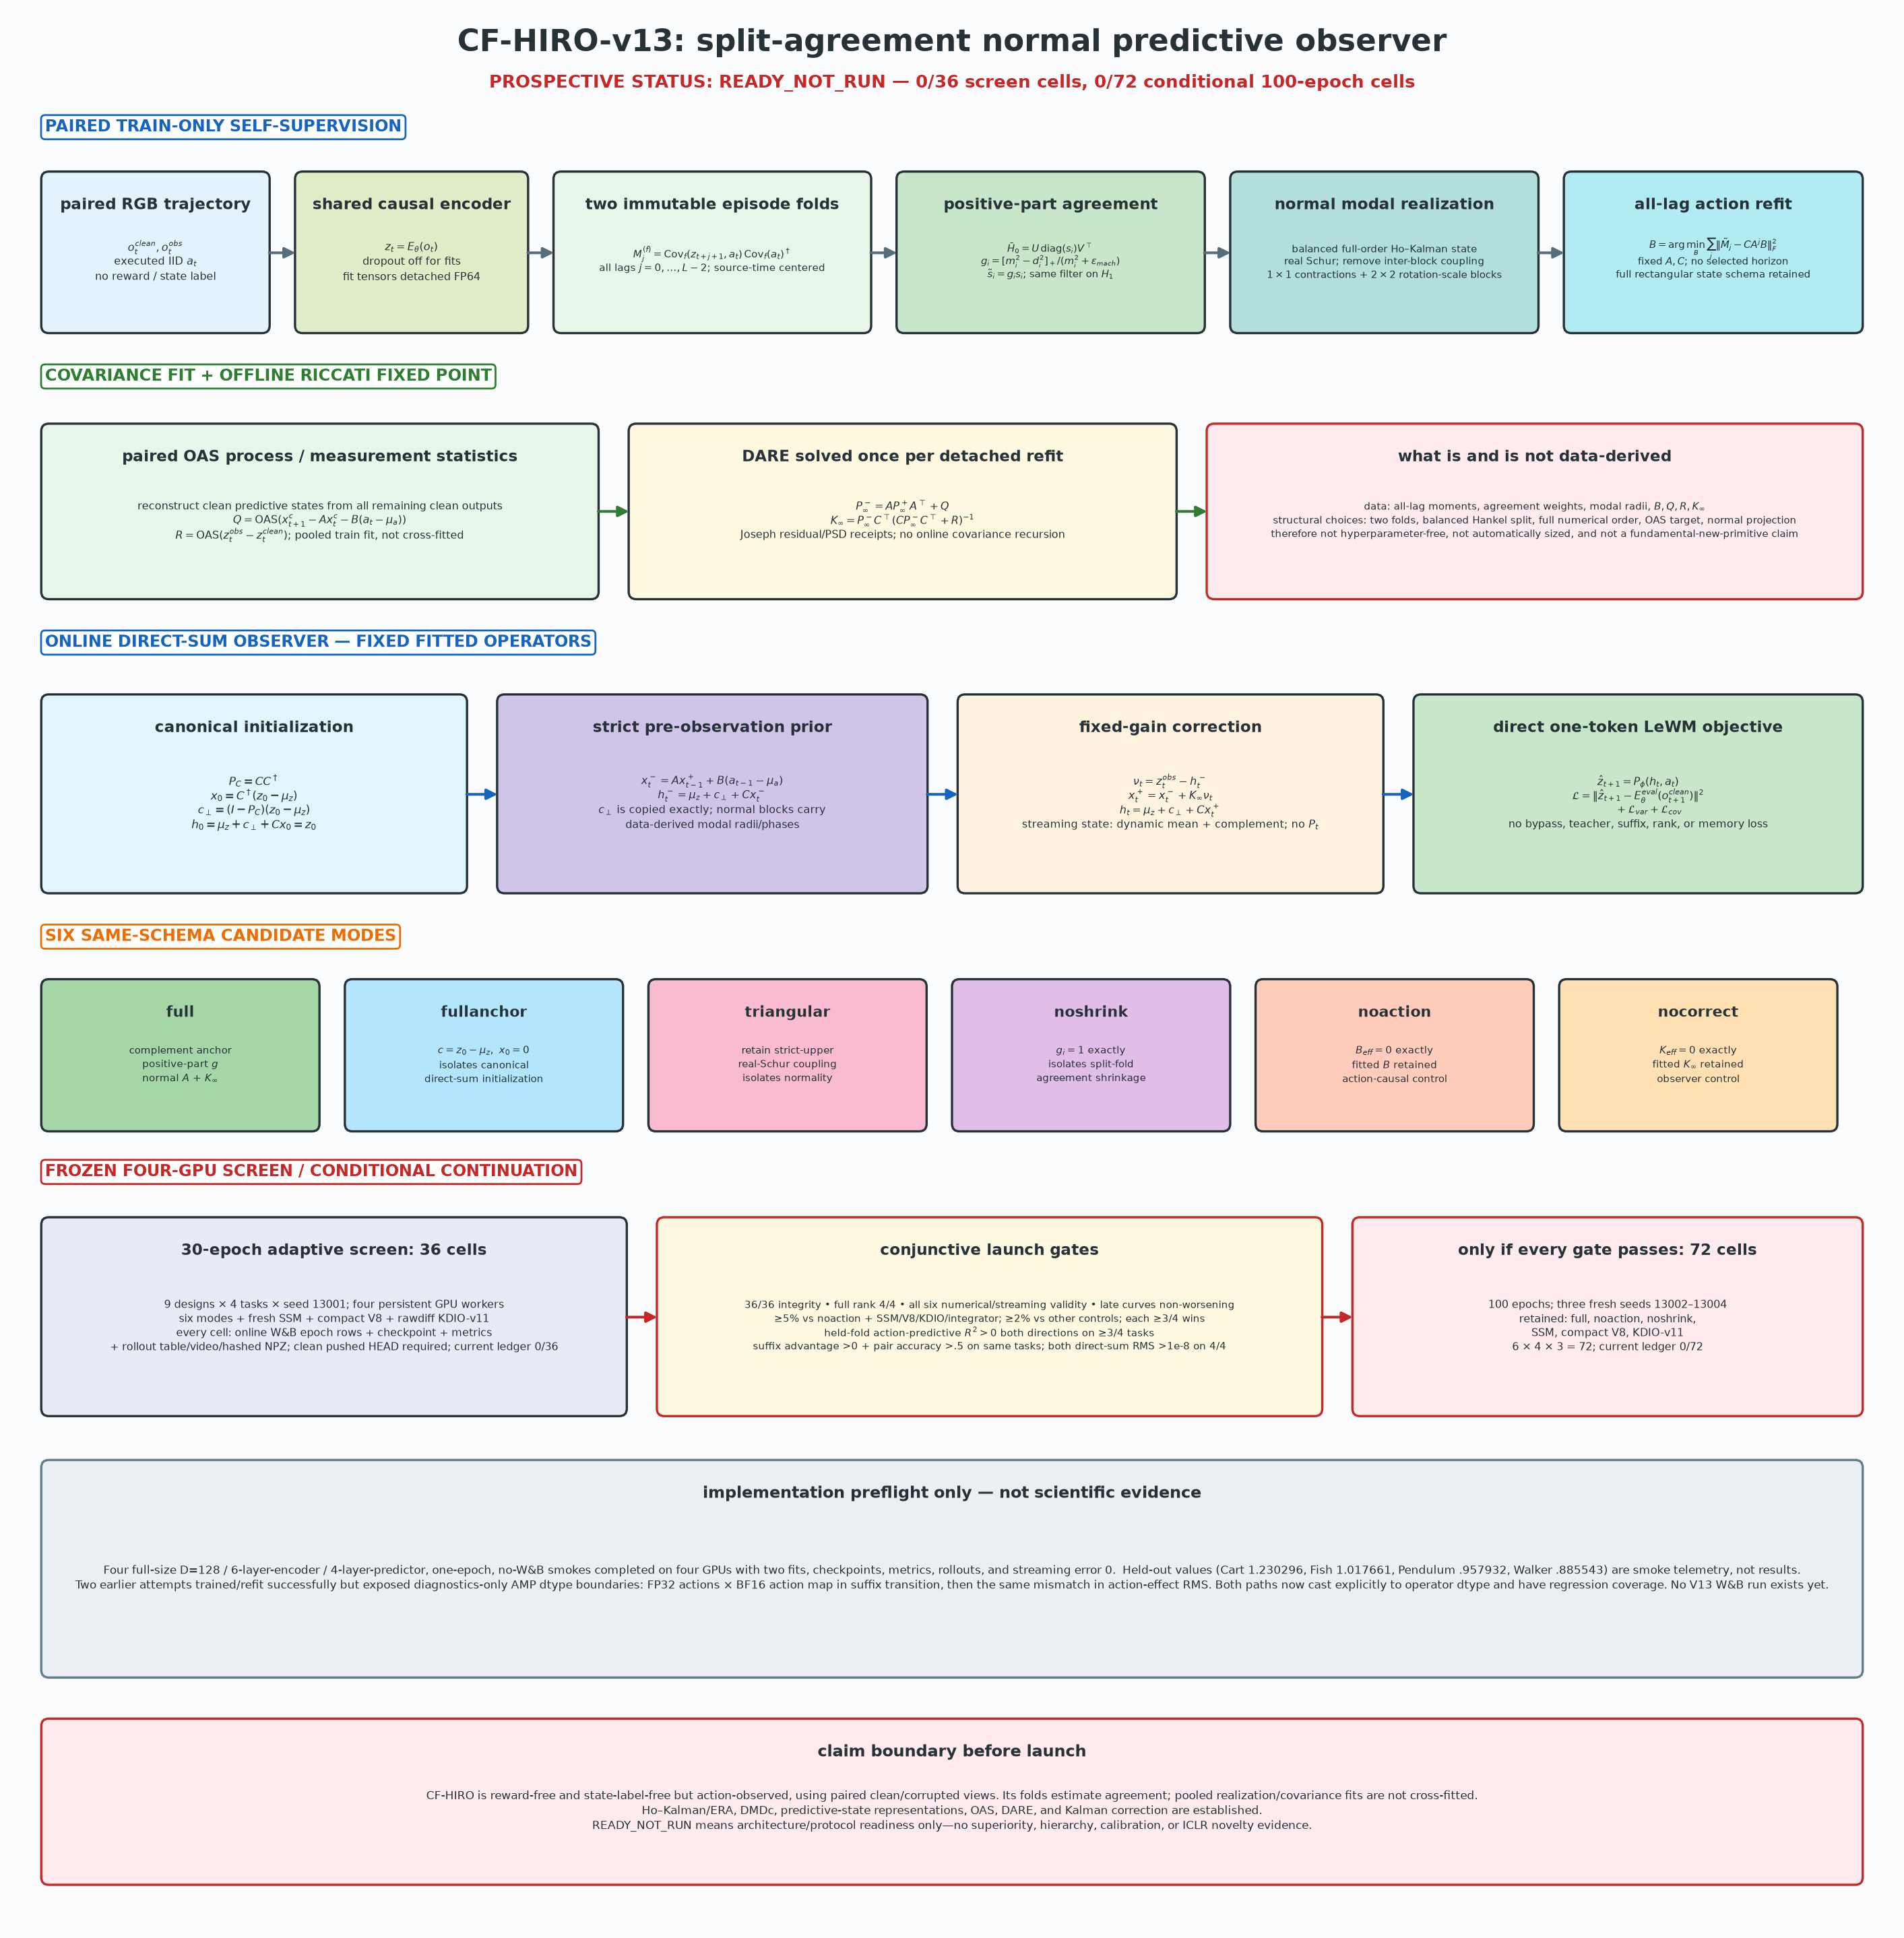
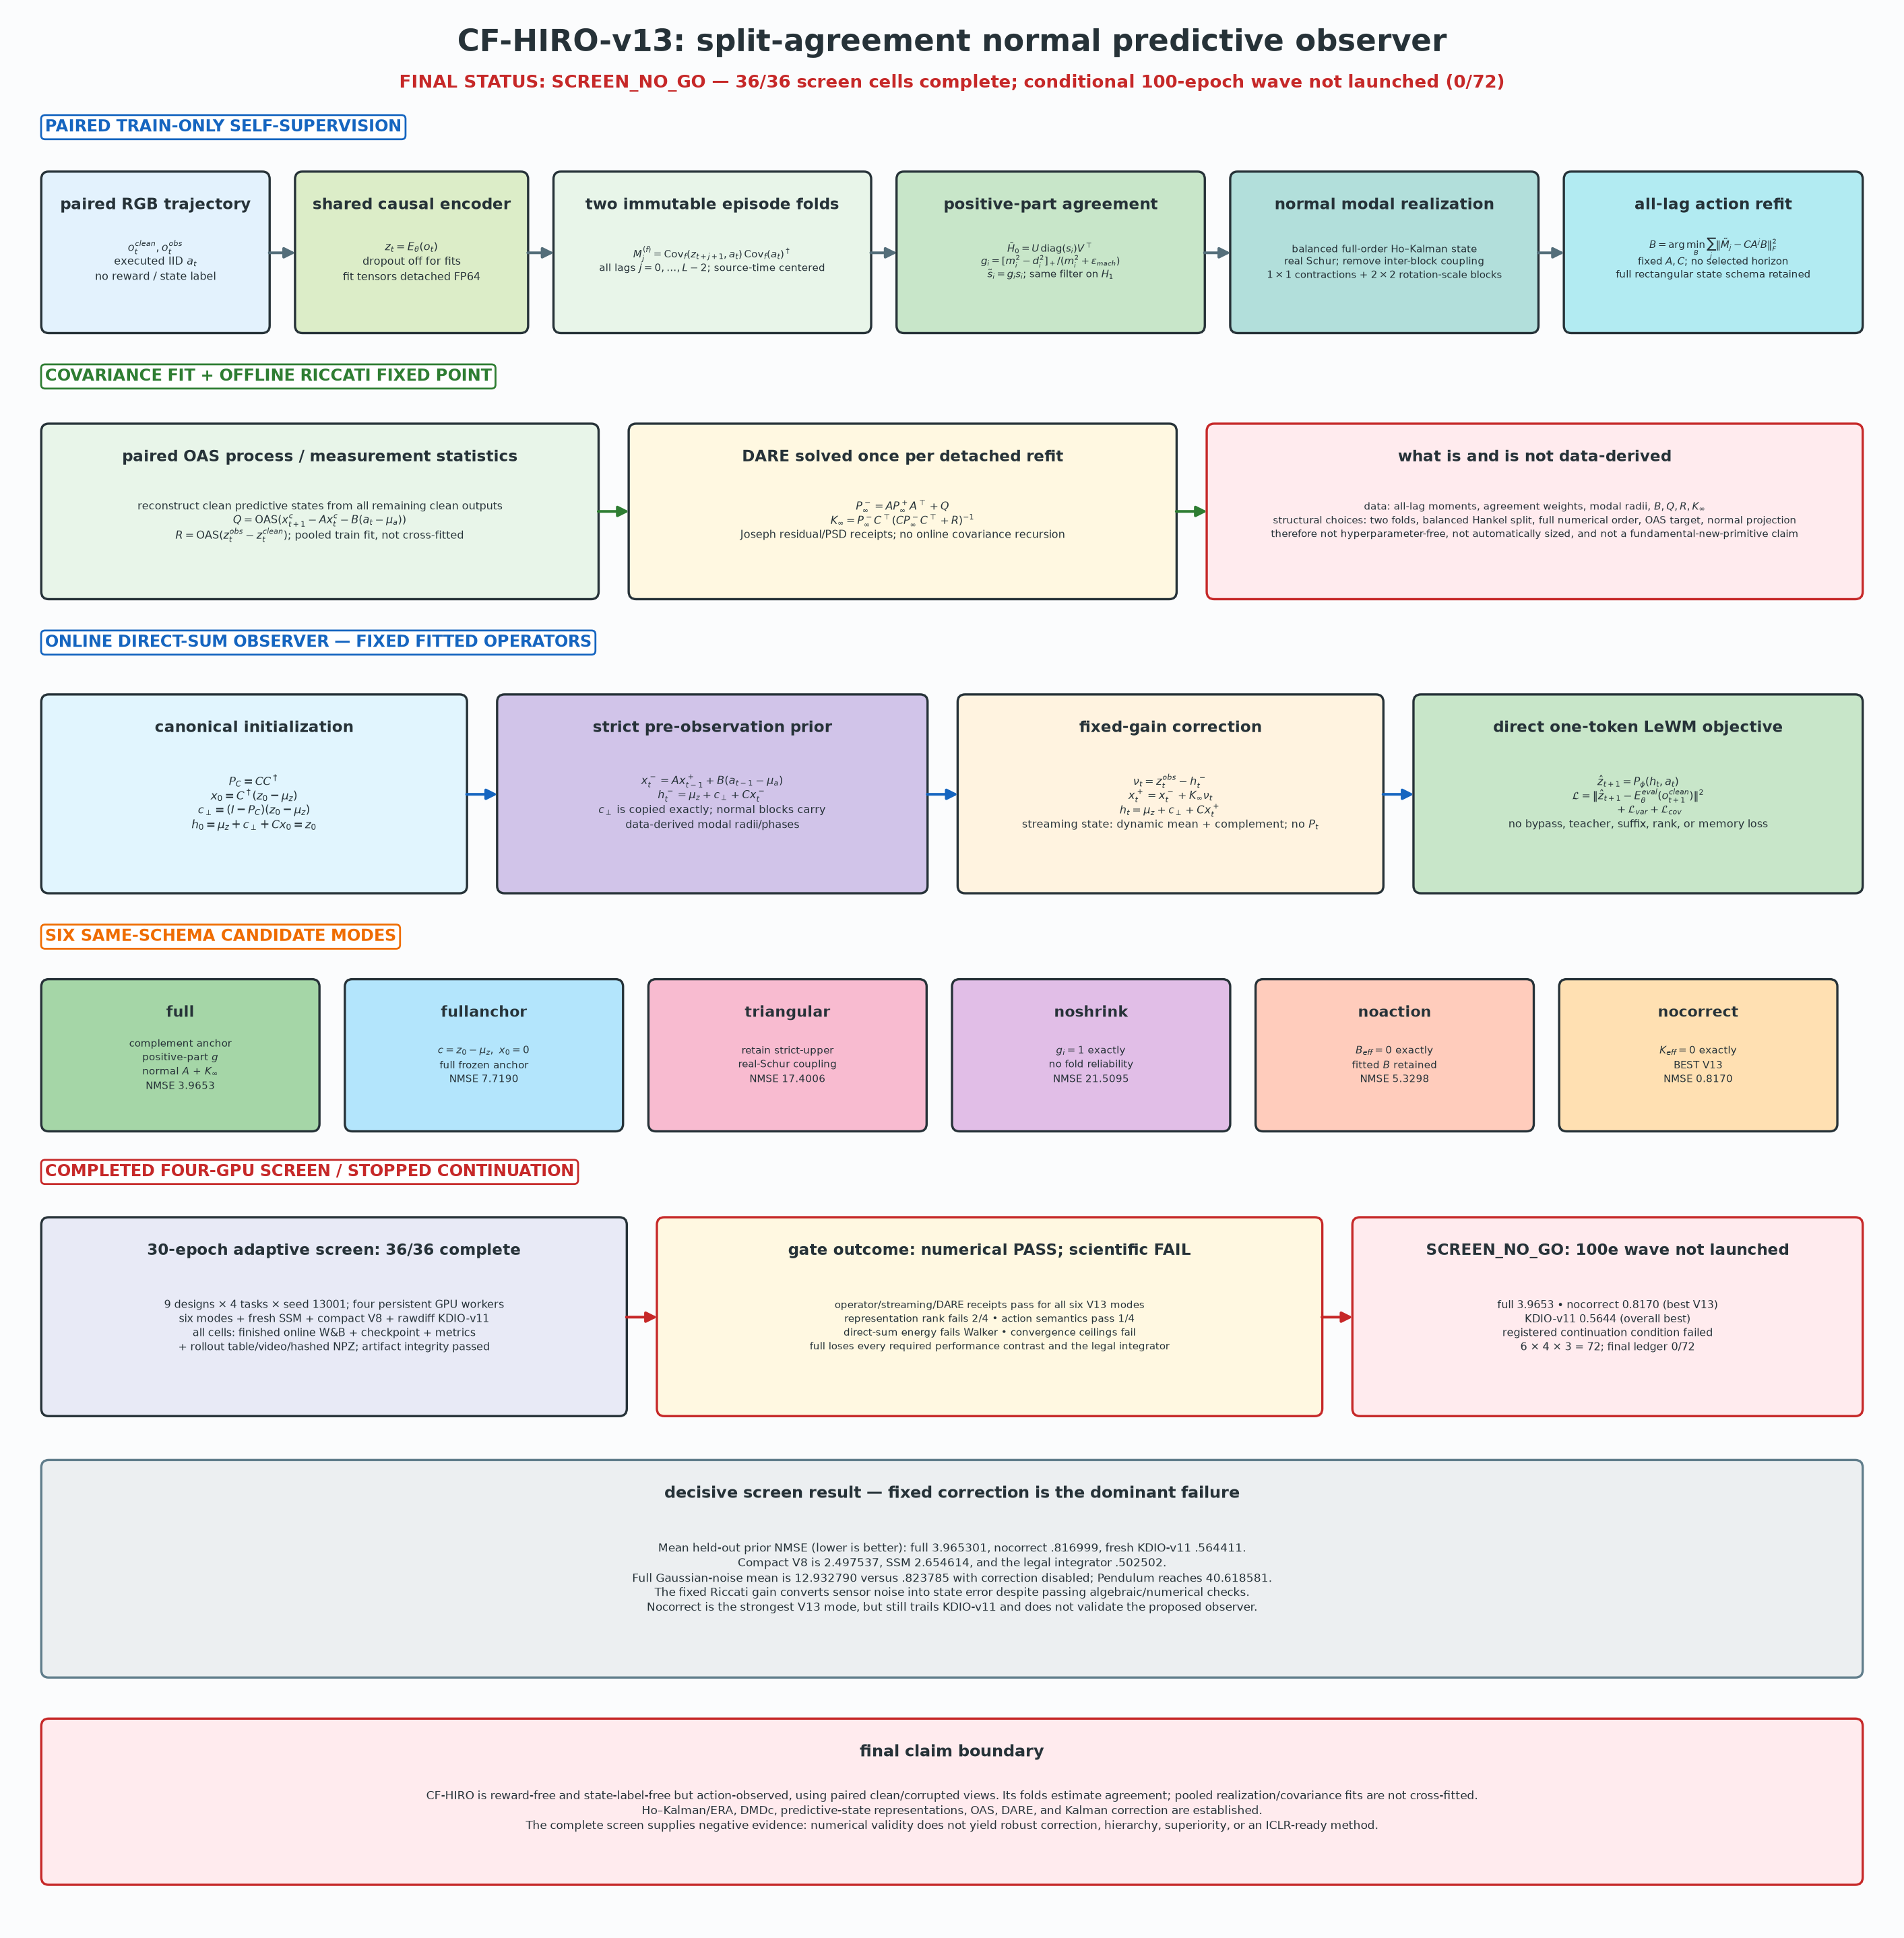
Record completed CF-HIRO V13 screen

diff --git a/scripts/make_cf_hiro_v13_arch_fig.py b/scripts/make_cf_hiro_v13_arch_fig.py
@@ -1,5 +1,5 @@
 #!/usr/bin/env python3
-"""Render the prospective CF-HIRO-v13 architecture and frozen screen contract."""
+"""Render the CF-HIRO-v13 architecture and completed screen result."""
 
 from pathlib import Path
 
@@ -59,7 +59,7 @@ def main() -> None:
             "CF-HIRO-v13: split-agreement normal predictive observer",
             ha="center", fontsize=18, fontweight="bold", color=INK)
     ax.text(10, 19.69,
-            "PROSPECTIVE STATUS: READY_NOT_RUN — 0/36 screen cells, 0/72 conditional 100-epoch cells",
+            "FINAL STATUS: SCREEN_NO_GO — 36/36 screen cells complete; conditional 100-epoch wave not launched (0/72)",
             ha="center", fontsize=10.3, fontweight="bold", color=AUDIT)
 
     tag(ax, .35, 19.22, "PAIRED TRAIN-ONLY SELF-SUPERVISION", ONLINE)
@@ -137,54 +137,54 @@ def main() -> None:
 
     tag(ax, .35, 10.55, "SIX SAME-SCHEMA CANDIDATE MODES", CONTROL)
     controls = (
-        ("full", "complement anchor\npositive-part $g$\n" r"normal $A$ + $K_\infty$", "#a5d6a7"),
-        ("fullanchor", r"$c=z_0-\mu_z,\ x_0=0$" "\nisolates canonical\ndirect-sum initialization", "#b3e5fc"),
-        ("triangular", "retain strict-upper\nreal-Schur coupling\nisolates normality", "#f8bbd0"),
-        ("noshrink", r"$g_i=1$ exactly" "\nisolates split-fold\nagreement shrinkage", "#e1bee7"),
-        ("noaction", r"$B_{eff}=0$ exactly" "\nfitted $B$ retained\naction-causal control", "#ffccbc"),
-        ("nocorrect", r"$K_{eff}=0$ exactly" "\n" r"fitted $K_\infty$ retained" "\nobserver control", "#ffe0b2"),
+        ("full", "complement anchor\npositive-part $g$\n" r"normal $A$ + $K_\infty$" "\nNMSE 3.9653", "#a5d6a7"),
+        ("fullanchor", r"$c=z_0-\mu_z,\ x_0=0$" "\nfull frozen anchor\nNMSE 7.7190", "#b3e5fc"),
+        ("triangular", "retain strict-upper\nreal-Schur coupling\nNMSE 17.4006", "#f8bbd0"),
+        ("noshrink", r"$g_i=1$ exactly" "\nno fold reliability\nNMSE 21.5095", "#e1bee7"),
+        ("noaction", r"$B_{eff}=0$ exactly" "\nfitted $B$ retained\nNMSE 5.3298", "#ffccbc"),
+        ("nocorrect", r"$K_{eff}=0$ exactly" "\nBEST V13\nNMSE 0.8170", "#ffe0b2"),
     )
     for index, (title, body, color) in enumerate(controls):
         box(ax, .35 + index * 3.23, 8.55, 2.88, 1.55, title, body, color,
             title_size=8.8, body_size=6.2)
 
-    tag(ax, .35, 8.03, "FROZEN FOUR-GPU SCREEN / CONDITIONAL CONTINUATION", AUDIT)
-    box(ax, .35, 5.50, 6.15, 2.05, "30-epoch adaptive screen: 36 cells",
+    tag(ax, .35, 8.03, "COMPLETED FOUR-GPU SCREEN / STOPPED CONTINUATION", AUDIT)
+    box(ax, .35, 5.50, 6.15, 2.05, "30-epoch adaptive screen: 36/36 complete",
         "9 designs × 4 tasks × seed 13001; four persistent GPU workers\n"
         "six modes + fresh SSM + compact V8 + rawdiff KDIO-v11\n"
-        "every cell: online W&B epoch rows + checkpoint + metrics\n"
-        "+ rollout table/video/hashed NPZ; clean pushed HEAD required; current ledger 0/36",
+        "all cells: finished online W&B + checkpoint + metrics\n"
+        "+ rollout table/video/hashed NPZ; artifact integrity passed",
         "#e8eaf6", body_size=6.35)
-    box(ax, 6.90, 5.50, 7.00, 2.05, "conjunctive launch gates",
-        "36/36 integrity • full rank 4/4 • all six numerical/streaming validity • late curves non-worsening\n"
-        "≥5% vs noaction + SSM/V8/KDIO/integrator; ≥2% vs other controls; each ≥3/4 wins\n"
-        r"held-fold action-predictive $R^2>0$ both directions on ≥3/4 tasks" "\n"
-        "suffix advantage >0 + pair accuracy >.5 on same tasks; both direct-sum RMS >1e-8 on 4/4",
+    box(ax, 6.90, 5.50, 7.00, 2.05, "gate outcome: numerical PASS; scientific FAIL",
+        "operator/streaming/DARE receipts pass for all six V13 modes\n"
+        "representation rank fails 2/4 • action semantics pass 1/4\n"
+        "direct-sum energy fails Walker • convergence ceilings fail\n"
+        "full loses every required performance contrast and the legal integrator",
         "#fff8e1", edge=AUDIT, body_size=6.2)
-    box(ax, 14.30, 5.50, 5.35, 2.05, "only if every gate passes: 72 cells",
-        "100 epochs; three fresh seeds 13002–13004\n"
-        "retained: full, noaction, noshrink,\nSSM, compact V8, KDIO-v11\n"
-        "6 × 4 × 3 = 72; current ledger 0/72",
+    box(ax, 14.30, 5.50, 5.35, 2.05, "SCREEN_NO_GO: 100e wave not launched",
+        "full 3.9653 • nocorrect 0.8170 (best V13)\n"
+        "KDIO-v11 0.5644 (overall best)\n"
+        "registered continuation condition failed\n"
+        "6 × 4 × 3 = 72; final ledger 0/72",
         "#ffebee", edge=AUDIT, body_size=6.35)
     arrow(ax, (6.50, 6.52), (6.90, 6.52), color=AUDIT)
     arrow(ax, (13.90, 6.52), (14.30, 6.52), color=AUDIT)
 
     box(ax, .35, 2.70, 19.30, 2.25,
-        "implementation preflight only — not scientific evidence",
-        "Four full-size D=128 / 6-layer-encoder / 4-layer-predictor, one-epoch, no-W&B smokes "
-        "completed on four GPUs with two fits, checkpoints, metrics, rollouts, and streaming error 0.  "
-        "Held-out values (Cart 1.230296, Fish 1.017661, Pendulum .957932, Walker .885543) are smoke telemetry, not results.\n"
-        "Two earlier attempts trained/refit successfully but exposed diagnostics-only AMP dtype boundaries: "
-        "FP32 actions × BF16 action map in suffix transition, then the same mismatch in action-effect RMS. "
-        "Both paths now cast explicitly to operator dtype and have regression coverage. No V13 W&B run exists yet.",
+        "decisive screen result — fixed correction is the dominant failure",
+        "Mean held-out prior NMSE (lower is better): full 3.965301, nocorrect .816999, fresh KDIO-v11 .564411.\n"
+        "Compact V8 is 2.497537, SSM 2.654614, and the legal integrator .502502.\n"
+        "Full Gaussian-noise mean is 12.932790 versus .823785 with correction disabled; Pendulum reaches 40.618581.\n"
+        "The fixed Riccati gain converts sensor noise into state error despite passing algebraic/numerical checks.\n"
+        "Nocorrect is the strongest V13 mode, but still trails KDIO-v11 and does not validate the proposed observer.",
         "#eceff1", edge="#607d8b", title_size=9.6, body_size=6.65)
 
     box(ax, .35, .48, 19.30, 1.70,
-        "claim boundary before launch",
+        "final claim boundary",
         "CF-HIRO is reward-free and state-label-free but action-observed, using paired clean/corrupted views. "
         "Its folds estimate agreement; pooled realization/covariance fits are not cross-fitted.\n"
         "Ho–Kalman/ERA, DMDc, predictive-state representations, OAS, DARE, and Kalman correction are established.\n"
-        "READY_NOT_RUN means architecture/protocol readiness only—no superiority, hierarchy, calibration, or ICLR novelty evidence.",
+        "The complete screen supplies negative evidence: numerical validity does not yield robust correction, hierarchy, superiority, or an ICLR-ready method.",
         "#ffebee", edge=AUDIT, title_size=9.5, body_size=6.7)
 
     OUTPUT.parent.mkdir(parents=True, exist_ok=True)

diff --git a/scripts/make_memory_versions_arch_fig.py b/scripts/make_memory_versions_arch_fig.py
@@ -95,7 +95,7 @@ def main() -> None:
          '28/28 artifacts; rank 21/28\nNO_GO; no 100e',
          '#3949ab', body_size=2.65)
     card(ax, xs[12], top_y, width, top_h, 'CF-HIRO',
-         'v13 split-agreement Hankel\nnormal modal state + complement\nfixed DARE gain\nREADY_NOT_RUN 0/36',
+         'v13 split-agreement Hankel\nnormal modal state + complement\nfixed DARE gain\nNO_GO 36/36',
          '#283593', title_size=9.0, body_size=2.25)
     for index in range(12):
         arrow(ax, (xs[index] + width, 42.27), (xs[index + 1], 42.27))
@@ -203,25 +203,25 @@ def main() -> None:
          '#ffebee', title_size=9.4, body_size=5.25, edge='#b71c1c', linewidth=1.6)
 
     ax.text(0.35, 23.30,
-            'V13 CF-HIRO prospective screen: six same-schema modes + SSM / compact V8 / KDIO; READY_NOT_RUN, 0/36',
+            'V13 CF-HIRO completed screen: six same-schema modes + SSM / compact V8 / KDIO; 36/36, SCREEN_NO_GO',
             fontsize=10.8, fontweight='bold', color='#37474f')
     v13_controls = (
-        ('full', r'complement $c_\perp$' '\npositive-part fold $g$\n' r'normal $A$ + fixed $K_\infty$', '#a5d6a7'),
-        ('fullanchor', r'$c=z_0-\mu_z,x_0=0$' '\nfull frozen anchor\nscreen-only', '#b3e5fc'),
-        ('triangular', 'retain Schur\ninter-block coupling\nscreen-only', '#f8bbd0'),
-        ('noshrink', '$g_i=1$ exactly\nno fold reliability\nretained if launch', '#e1bee7'),
-        ('noaction', '$B_{eff}=0$ exactly\nfitted $B$ retained\nretained if launch', '#ffccbc'),
-        ('nocorrect', '$K_{eff}=0$ exactly\n' r'fitted $K_\infty$ retained' '\nscreen-only', '#ffe0b2'),
+        ('full', r'complement $c_\perp$' '\n' r'normal $A$ + fixed $K_\infty$' '\nNMSE 3.9653', '#a5d6a7'),
+        ('fullanchor', r'$c=z_0-\mu_z,x_0=0$' '\nfull frozen anchor\nNMSE 7.7190', '#b3e5fc'),
+        ('triangular', 'retain Schur\ninter-block coupling\nNMSE 17.4006', '#f8bbd0'),
+        ('noshrink', '$g_i=1$ exactly\nno fold reliability\nNMSE 21.5095', '#e1bee7'),
+        ('noaction', '$B_{eff}=0$ exactly\nfitted $B$ retained\nNMSE 5.3298', '#ffccbc'),
+        ('nocorrect', '$K_{eff}=0$ exactly\nBEST V13\nNMSE .8170', '#ffe0b2'),
     )
     for index, (title, body, color) in enumerate(v13_controls):
         card(ax, 0.20 + index * 2.95, 21.58, 2.70, 1.30, title, body, color,
              title_size=7.6, body_size=5.35)
     card(ax, 0.35, 19.92, 17.30, 1.36,
-         'CF-HIRO-v13 frozen protocol: 36-cell 30e screen; conditional 72-cell 100e wave only after every gate',
+         'CF-HIRO-v13 closeout: 36/36 screen cells, SCREEN_NO_GO; conditional 100e wave not launched (0/72)',
          'All-lag split-fold moments → positive-part agreement → full-order Ho–Kalman state → real-normal blocks → '
          'all-lag $B$ refit → paired OAS/DARE. Direct-sum read ' r'$\mu_z+c_\perp+Cx$' '; no online covariance or memory loss.\n'
-         'Gates: full rank 4/4; all six numerical; ≥5% vs noaction/external/integrator, ≥2% vs other controls, each 3/4 wins; both RMS >1e-8. '
-         'No V13 W&B/result; not cross-fitted, hyperparameter-free, automatically sized, fundamentally novel, or ICLR-ready.',
+         'Numerical gates pass, but scientific gates fail: full 3.9653, nocorrect .8170 (best V13), KDIO .5644 (overall best). '
+         'Full Gaussian NMSE 12.9328 vs nocorrect .8238 identifies fixed correction as the dominant failure.',
          '#e8eaf6', title_size=8.7, body_size=5.35, edge='#c62828', linewidth=1.5)
 
     ax.text(0.35, 19.38, 'Pre-V4 architecture controls used in the mechanism studies',
@@ -337,7 +337,7 @@ def main() -> None:
             'V7 complete: 325 runs.  V8 complete: 325 runs, locked negative label.  '
             'V9 complete: 325 runs, locked negative label.  V10-J audit: 5×100 epochs; official 0/225.  '
             'V11 development: 64 cells, NO_GO; official 0/400.  V12 adaptive screen: 28/28 artifacts, NO_GO; 100e 0/28.  '
-            'V13: READY_NOT_RUN, screen 0/36; conditional 0/72.',
+            'V13: screen 36/36, SCREEN_NO_GO; conditional 100e 0/72.',
             ha='center', fontsize=7.9, color='#607d8b')
     ax.text(9, 0.66,
             'Historical V1–V4 cohorts retain their documented protocols; architecture cards do '
@@ -347,7 +347,7 @@ def main() -> None:
             'V11 action/objective variants all fail the development gate; its official matrix was never launched.  '
             'V12 loses to retrained V11 and the legal integrator; its shared-A full read collapses exactly to one $r+u$ state, '
             'and the V12b normal–Riccati repair has no replicated action signal (0/4 tasks).  '
-            'V13 architecture/smoke readiness is not performance or novelty evidence.',
+            'V13 passes numerical checks but its fixed correction amplifies Gaussian noise; nocorrect is best V13, while KDIO remains best overall.',
             ha='center', fontsize=7.8, fontweight='bold', color='#455a64')
 
     OUTPUT.parent.mkdir(parents=True, exist_ok=True)